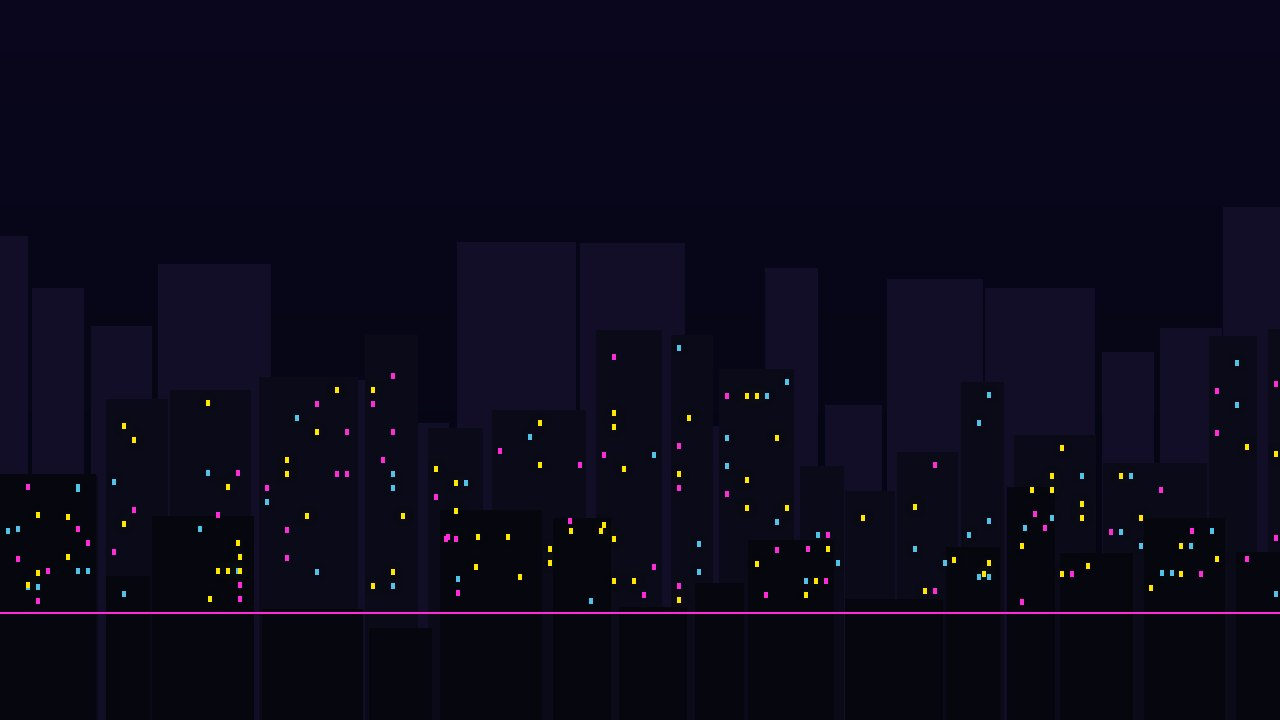
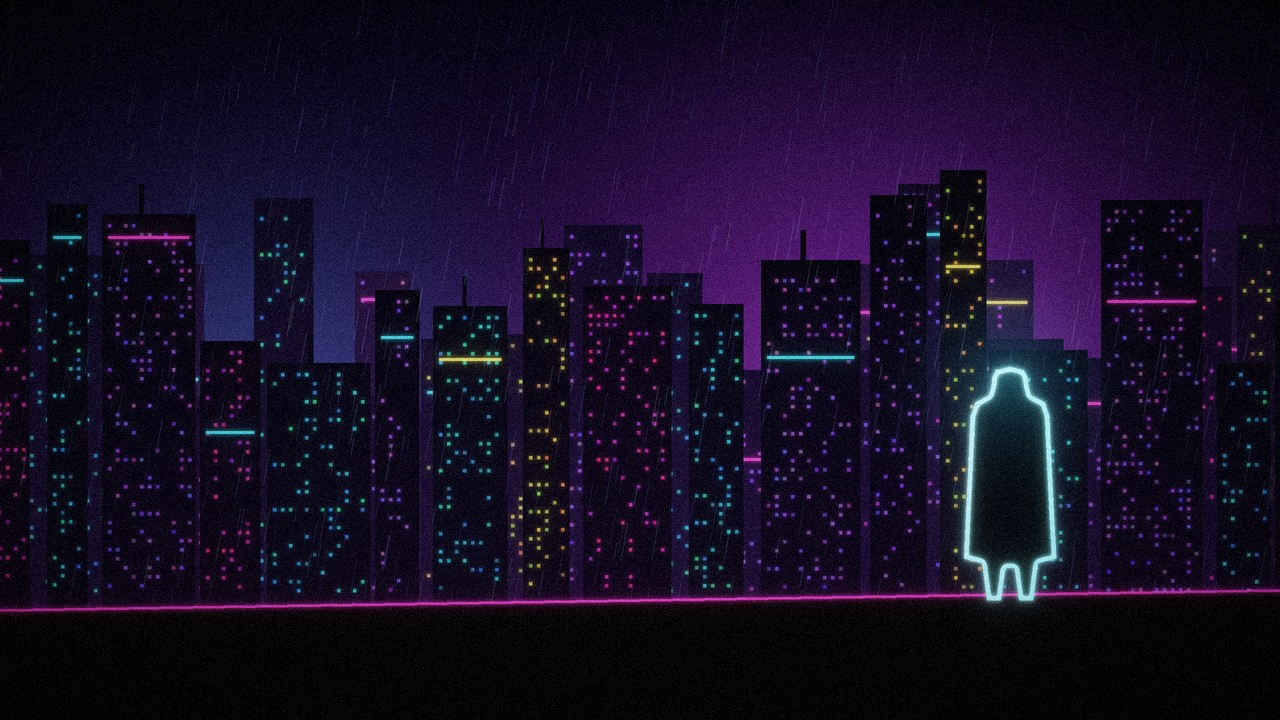
New Neon page backgrounds

Changed region(s): [[0.0, 0.0611, 1.0, 1.0], [0.9688, 0.0, 1.0, 0.0306], [0.0, 0.0, 0.0312, 0.0306]]

diff --git a/src/DynamicNotch/NotchWindow.CyberArt.cs b/src/DynamicNotch/NotchWindow.CyberArt.cs
@@ -8,8 +8,8 @@ using System.Windows.Media.Imaging;
 namespace DynamicNotch;
 
 /// <summary>
-/// Neon only: a faded picture behind each page of the control center. The app ships with a set for the first
-/// five pages; yours win: the notch looks in %APPDATA%\DynamicNotch\Backgrounds for page1.*, page2.* … page6.*
+/// Neon only: a faded picture behind each page of the control center. The app ships with one for every page;
+/// yours win: the notch looks in %APPDATA%\DynamicNotch\Backgrounds for page1.*, page2.* … page7.*
 /// (png, jpg, bmp, webp) first. Replace or add a file and it shows the next time the theme comes on; a page with
 /// neither stays clean.
 /// They sit on their own strip behind the pages and slide with them (the same transform), drawn once and reused
@@ -25,7 +25,10 @@ public partial class NotchWindow
     static readonly string[] ArtExtensions = { ".png", ".jpg", ".jpeg", ".bmp", ".webp" };
     Grid? _artHost;
     Border _artA = null!, _artB = null!, _artFront = null!;
-    readonly ImageBrush?[] _art = new ImageBrush?[6];
+    readonly ImageBrush?[] _art = new ImageBrush?[7];
+    readonly ScaleTransform _artZoom = new(1.07, 1.07);
+    readonly TranslateTransform _artPan = new();
+    bool _artDrifting;
     const double ArtLevel = 0.15;
 
     void CyberArt(bool on)
@@ -43,7 +46,8 @@ public partial class NotchWindow
             if (_artHost == null)
             {
                 // behind everything in the open panel, header and dots included: the picture covers the whole page
-                _artHost = new Grid { IsHitTestVisible = false };
+                // a touch larger than the page, so it can drift slowly without showing an edge
+                _artHost = new Grid { IsHitTestVisible = false, RenderTransformOrigin = new Point(0.5, 0.5), RenderTransform = new TransformGroup { Children = { _artZoom, _artPan } } };
                 Grid.SetRowSpan(_artHost, 3);
                 _artA = new Border { Opacity = 0, CacheMode = new BitmapCache() };
                 _artB = new Border { Opacity = 0, CacheMode = new BitmapCache() };
@@ -76,6 +80,30 @@ public partial class NotchWindow
     }
 
     void CyberArtPages() => CyberArtShow();
+
+    /// <summary>
+    /// The picture drifts, very slowly, while the panel is open: it feels alive without anything to look at. Only the
+    /// finished picture moves (nothing is drawn again), 30 times a second, and only while it's on screen.
+    /// </summary>
+    void CyberArtDrift(bool on)
+    {
+        if (_artHost == null) on = false;
+        if (on == _artDrifting) return;
+        _artDrifting = on;
+        if (!on)
+        {
+            _artPan.BeginAnimation(TranslateTransform.XProperty, null);
+            _artPan.BeginAnimation(TranslateTransform.YProperty, null);
+            return;
+        }
+        var ease = new SineEase { EasingMode = EasingMode.EaseInOut };
+        var x = new DoubleAnimation(-14, 14, TimeSpan.FromSeconds(23)) { AutoReverse = true, RepeatBehavior = RepeatBehavior.Forever, EasingFunction = ease };
+        var y = new DoubleAnimation(-5, 5, TimeSpan.FromSeconds(17)) { AutoReverse = true, RepeatBehavior = RepeatBehavior.Forever, EasingFunction = ease };
+        Timeline.SetDesiredFrameRate(x, 30);
+        Timeline.SetDesiredFrameRate(y, 30);
+        _artPan.BeginAnimation(TranslateTransform.XProperty, x);
+        _artPan.BeginAnimation(TranslateTransform.YProperty, y);
+    }
 
     /// <summary>The picture for a page, decoded at twice the page's size (sharp, and a few MB at most), or nothing.</summary>
     static ImageBrush? LoadArt(int page)

diff --git a/src/DynamicNotch/NotchWindow.Rain.cs b/src/DynamicNotch/NotchWindow.Rain.cs
@@ -61,6 +61,7 @@ public partial class NotchWindow
         bool live = _cyber && !Eco && !_offScreen && !_hidden && RainDev != "off";
         bool panel = live && _mode == Mode.Expanded && !_launcherOpen; // the search covers it: no rain behind it
         bool idle = live && (_mode is Mode.Idle or Mode.Slim && !_media.IsPlaying && !InGame || RainDev == "idle" && _mode != Mode.Expanded);
+        CyberArtDrift(_cyber && !Eco && !_offScreen && !_hidden && _mode == Mode.Expanded && !_launcherOpen); // the page's picture drifts while it's seen
 
         if (panel != _rainPanel.Running)
         {

diff --git a/CHANGELOG.md b/CHANGELOG.md
@@ -1,5 +1,10 @@
 # Changelog
 
+## [Unreleased]
+
+### Changed
+- New Neon backgrounds, one for every page, drifting slowly while the panel is open.
+
 ## [2.7.0] — 2026-11-16
 
 A better-looking search.
